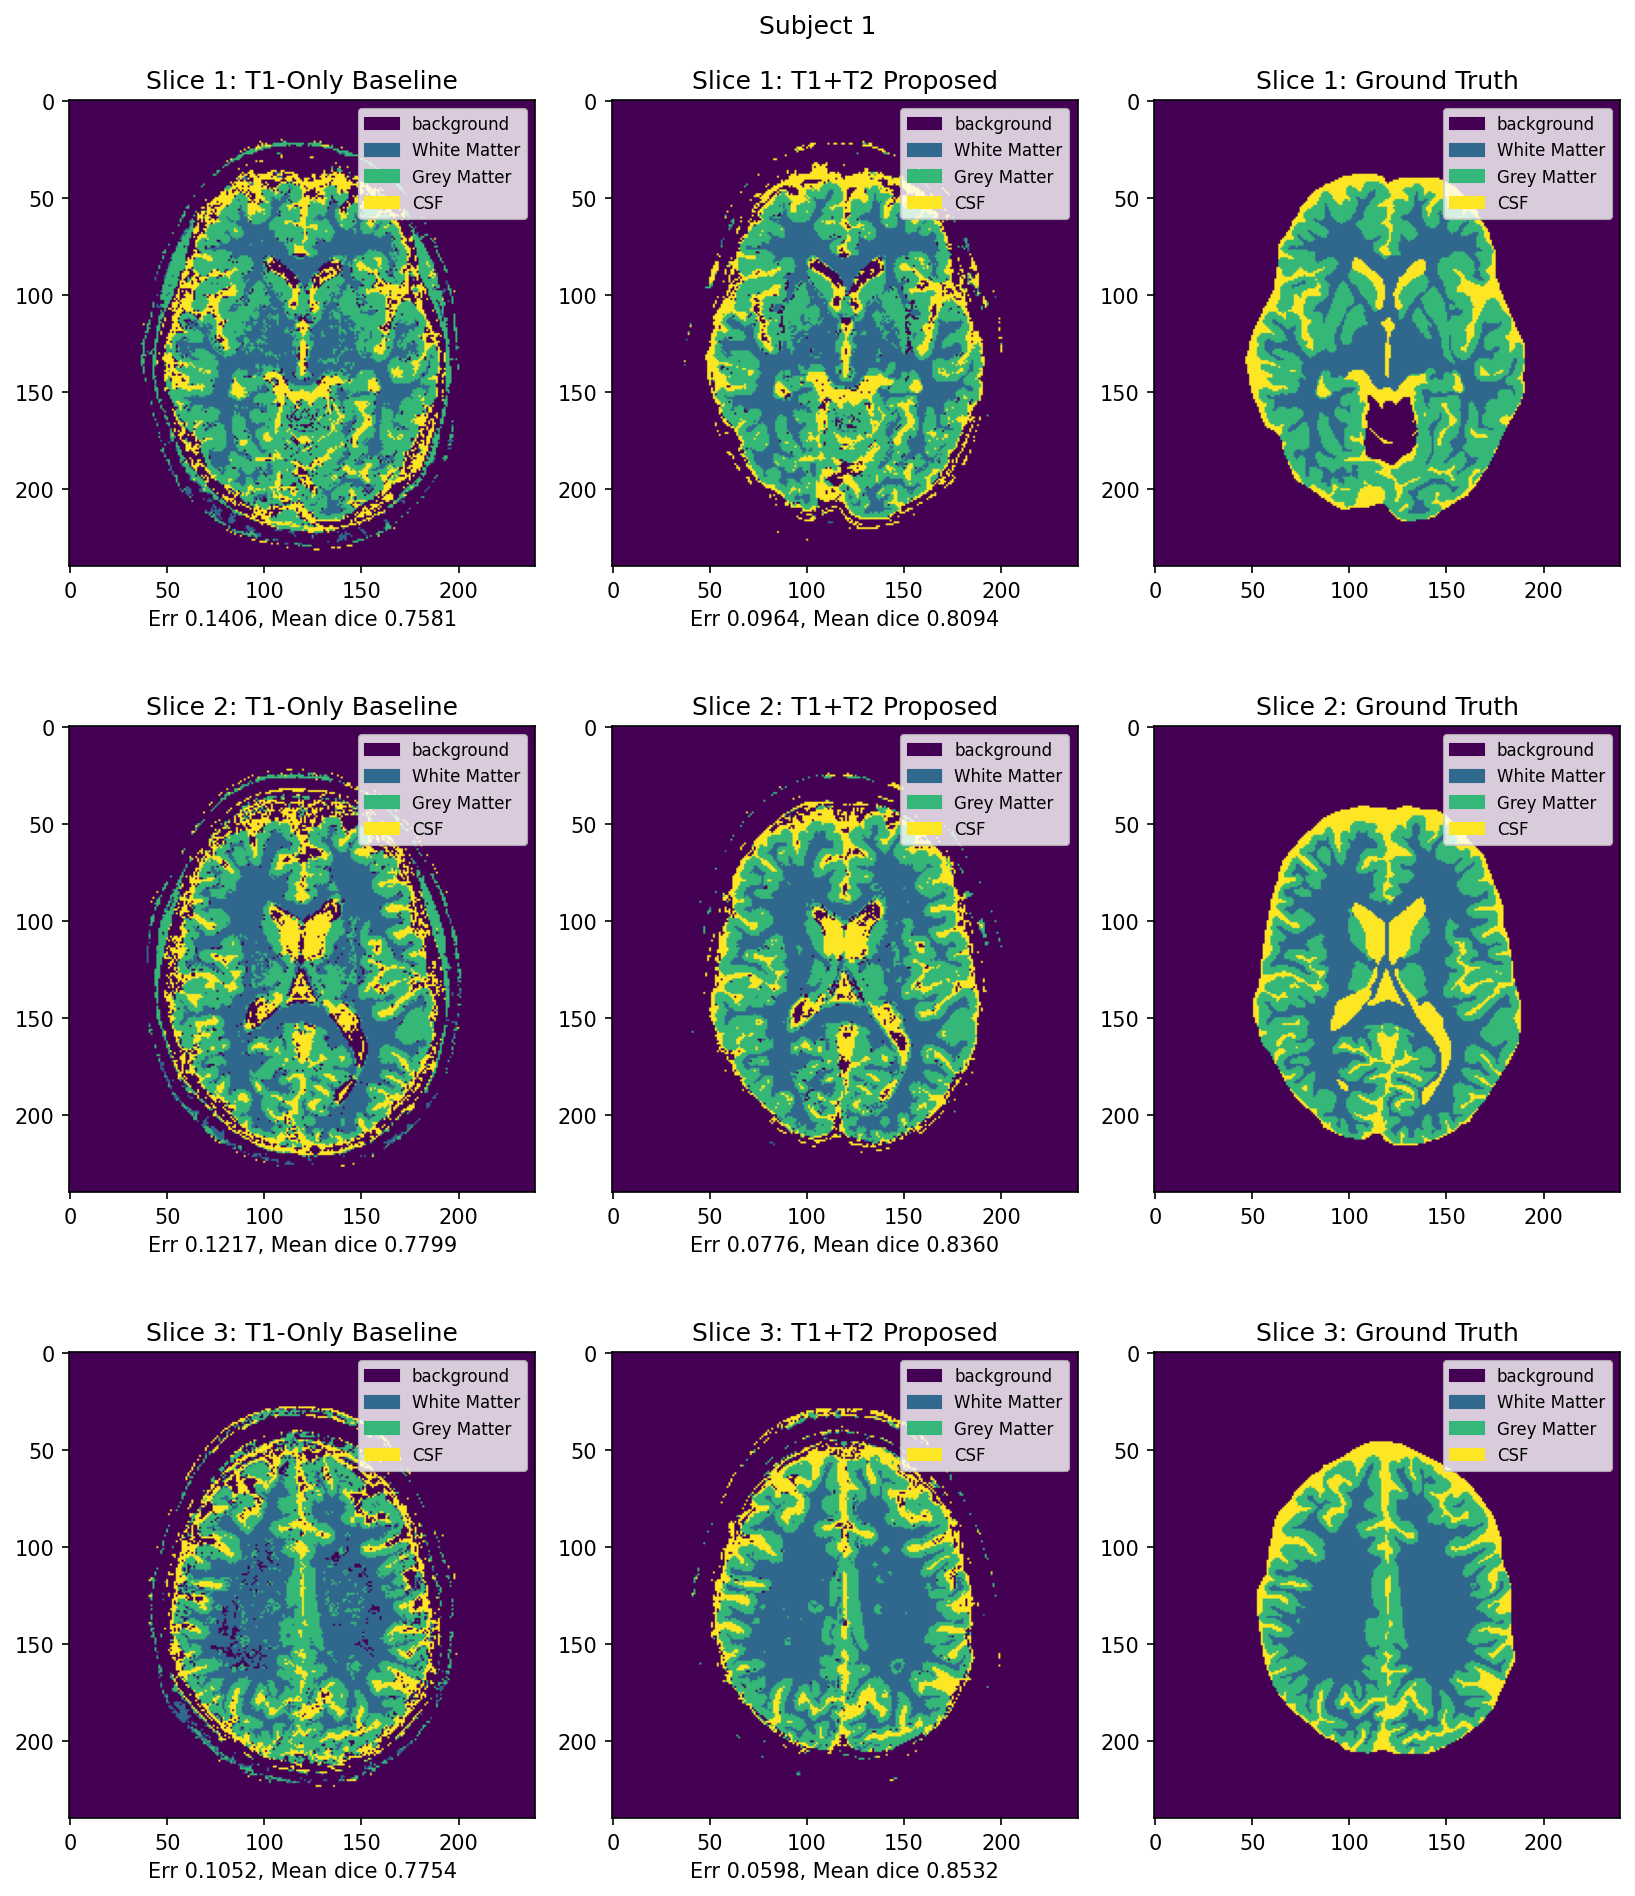
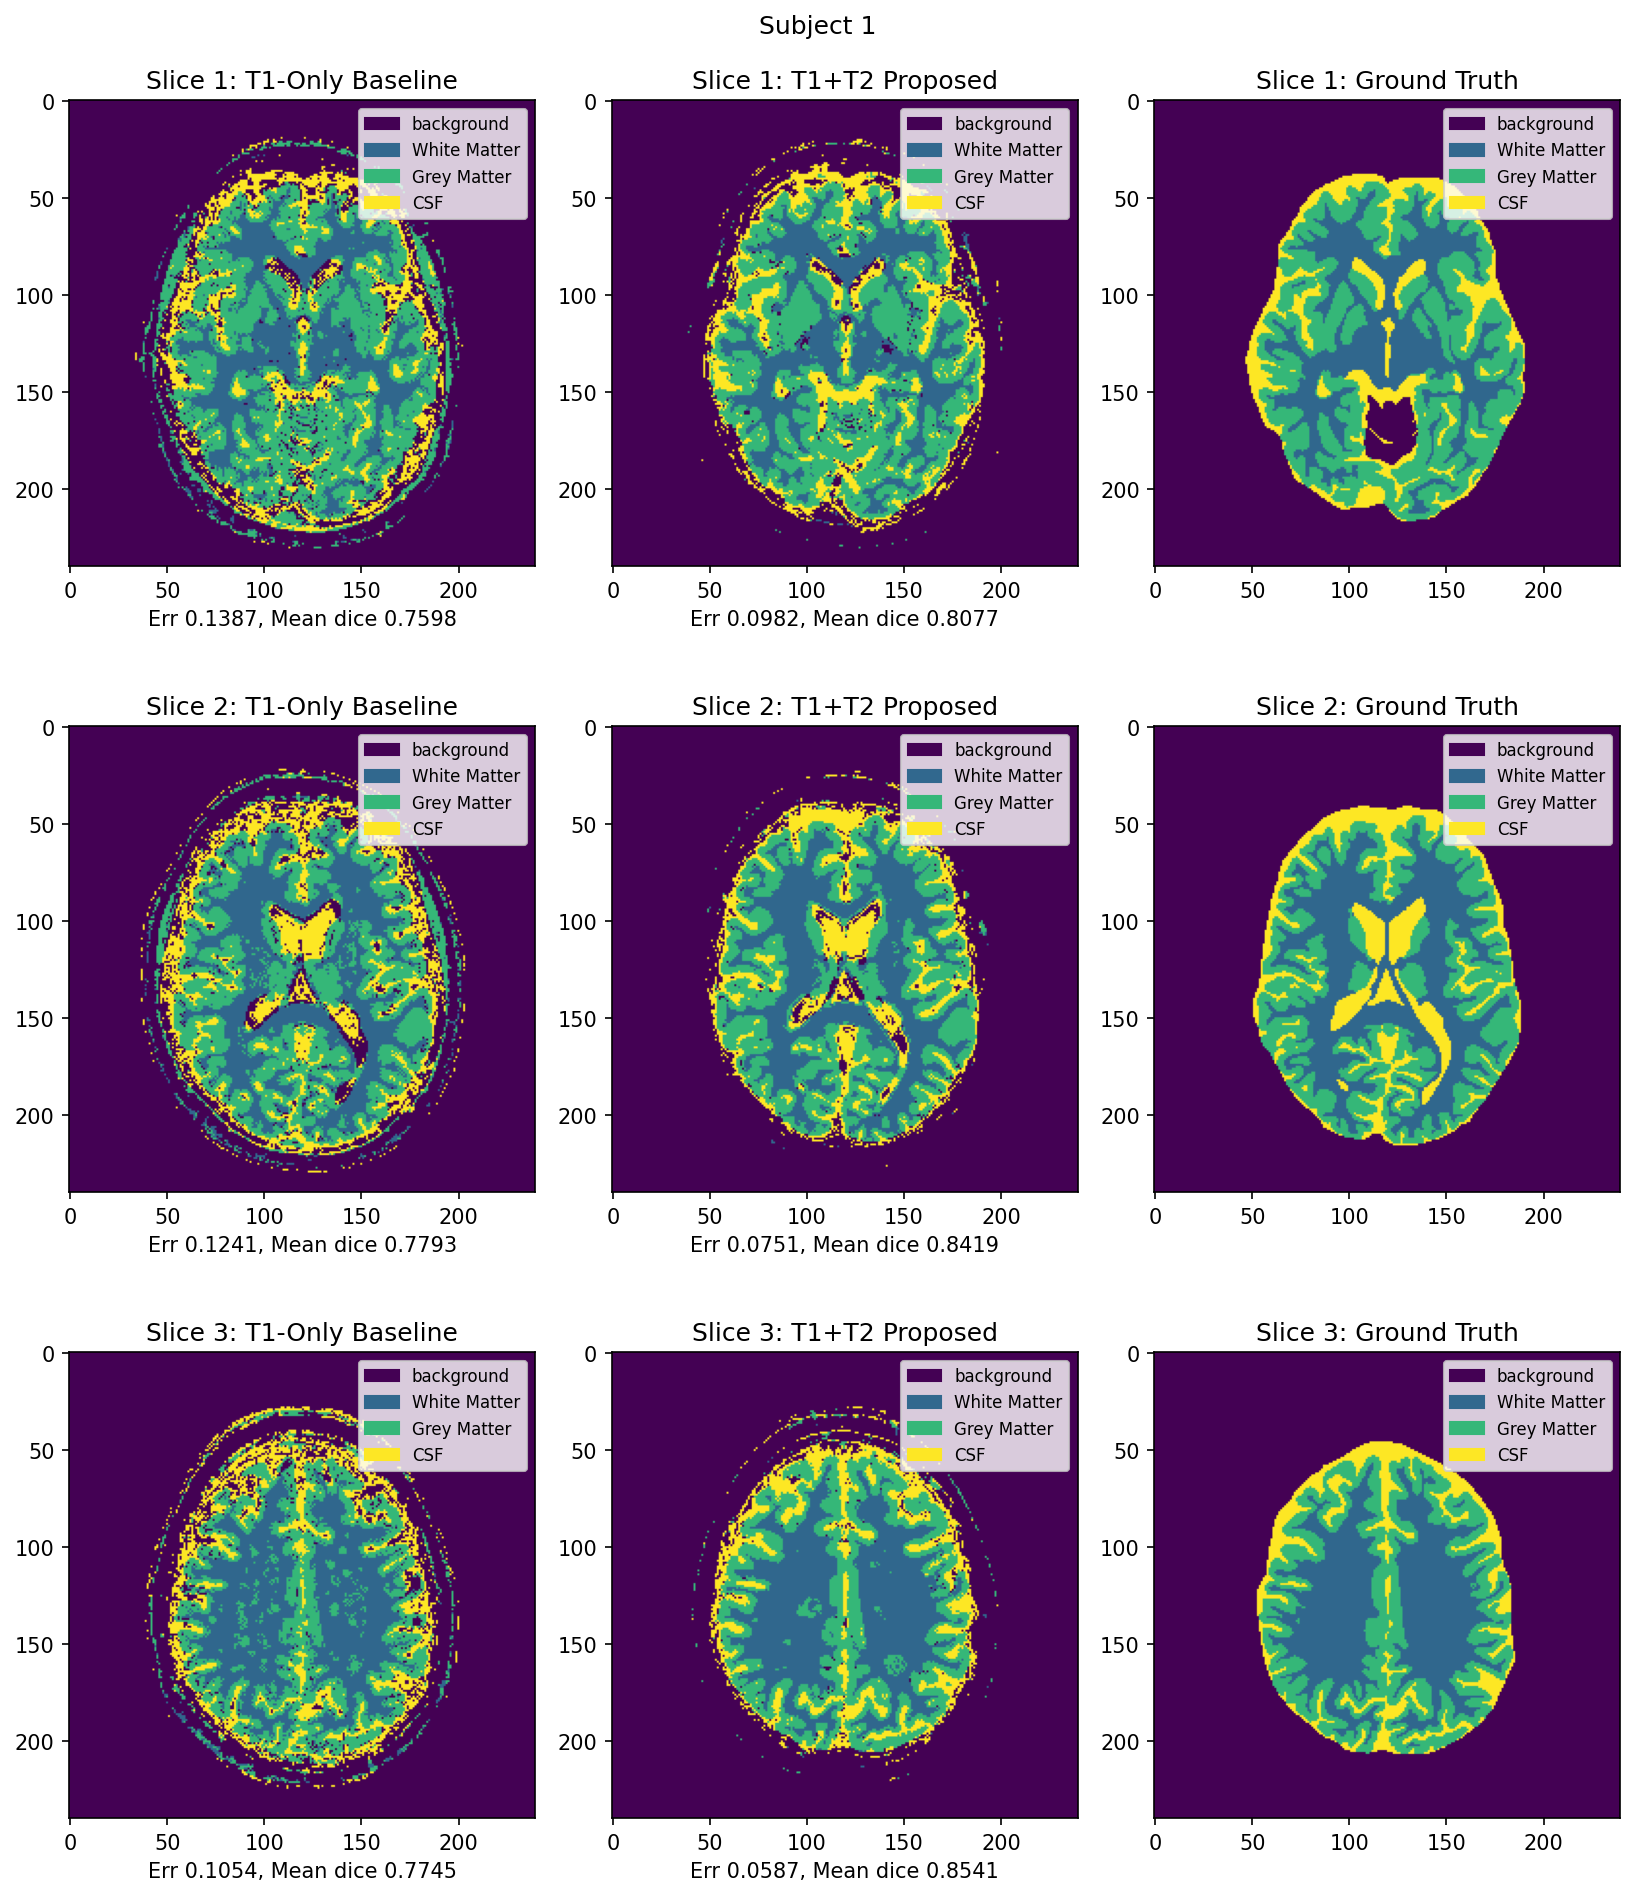
Correctie eerdere push??

diff --git a/Segmentation/code/segmentation_util.py b/Segmentation/code/segmentation_util.py
@@ -5,7 +5,6 @@ Utility functions for segmentation.
 import numpy as np
 import matplotlib.pyplot as plt
 import matplotlib.cm as cm
-import matplotlib.patches as mpatches
 import segmentation as seg
 from scipy import ndimage
 
@@ -47,11 +46,8 @@ def scatter_data(X, Y, feature0=0, feature1=1, ax=None):
     colors = cm.rainbow(np.linspace(0, 1, len(class_labels)))
     for i, c in zip(np.arange(len(class_labels)), colors):
         idx2 = indices2 == class_labels[i]
-        lbl = 'Class '+str(class_labels[i])
+        lbl = 'X, class '+str(i)
         ax.scatter(X[idx2,feature0], X[idx2,feature1], color=c, label=lbl)
-
-    # Show legend mapping colors to classes
-    ax.legend(title='Classes', loc='best')
 
     return ax
 
@@ -230,6 +226,27 @@ def create_labels(image_number, slice_number, task):
 
     return Y
 
+
+def dice_overlap(true_labels, predicted_labels, smooth=1.):
+    # returns the Dice coefficient for two binary label vectors
+    # Input:
+    # true_labels         Nx1 binary vector with the true labels
+    # predicted_labels    Nx1 binary vector with the predicted labels
+    # smooth              smoothing factor that prevents division by zero
+    # Output:
+    # dice          Dice coefficient
+
+    assert true_labels.shape[0] == predicted_labels.shape[0], "Number of labels do not match"
+
+    t = true_labels.flatten()
+    p = predicted_labels.flatten()
+
+    intersection = np.sum(t * p)
+    dice = (2. * intersection + smooth) / (np.sum(t) + np.sum(p) + smooth)
+    
+    return dice
+
+
 def dice_multiclass(true_labels, predicted_labels):
     #dice_multiclass.m returns the Dice coefficient for two label vectors with
     #multiple classses
@@ -265,6 +282,27 @@ def dice_multiclass(true_labels, predicted_labels):
 
     return dice_score_mean
 
+
+def classification_error(true_labels, predicted_labels):
+    # classification_error.m returns the classification error for two vectors
+    # with labels
+    #
+    # Input:
+    # true_labels         Nx1 vector with the true labels
+    # predicted_labels    Nx1 vector with the predicted labels
+    #
+    # Output:
+    # error         Classification error
+
+    assert true_labels.shape[0] == predicted_labels.shape[0], "Number of labels do not match"
+
+    t = true_labels.flatten()
+    p = predicted_labels.flatten()
+
+    err = np.mean(t != p)
+    
+    return err
+
 def confusion_matrix(true_labels, predicted_labels):
     import pandas as pd
     # confusion_matrix.m returns the confusion matrix for two vectors with labels
@@ -288,26 +326,6 @@ def confusion_matrix(true_labels, predicted_labels):
     conf_matrix = pd.DataFrame(conf_matrix, index=[f"True {name}" for name in class_names], columns=[f"Pred {name}" for name in class_names])
 
     return conf_matrix
-
-
-def add_label_legend(ax, class_names=None, num_classes=None, cmap_name='tab10', loc='best'):
-    """Add a legend for integer label images (0..C-1) showing class colors.
-
-    - ax: matplotlib Axes where legend will be placed
-    - class_names: optional list of class display names (length C)
-    - num_classes: optional number of classes; inferred from class_names if not provided
-    - cmap_name: matplotlib colormap name to sample colors from
-    - loc: legend location
-    """
-    if class_names is None and num_classes is None:
-        return ax
-    if num_classes is None:
-        num_classes = len(class_names)
-    cmap = cm.get_cmap(cmap_name, num_classes)
-    colors = cmap(np.arange(num_classes))
-    handles = [mpatches.Patch(color=colors[i], label=(class_names[i] if class_names is not None else f'Class {i}')) for i in range(num_classes)]
-    ax.legend(handles=handles, loc=loc, title='Classes')
-    return ax
 
 
 
